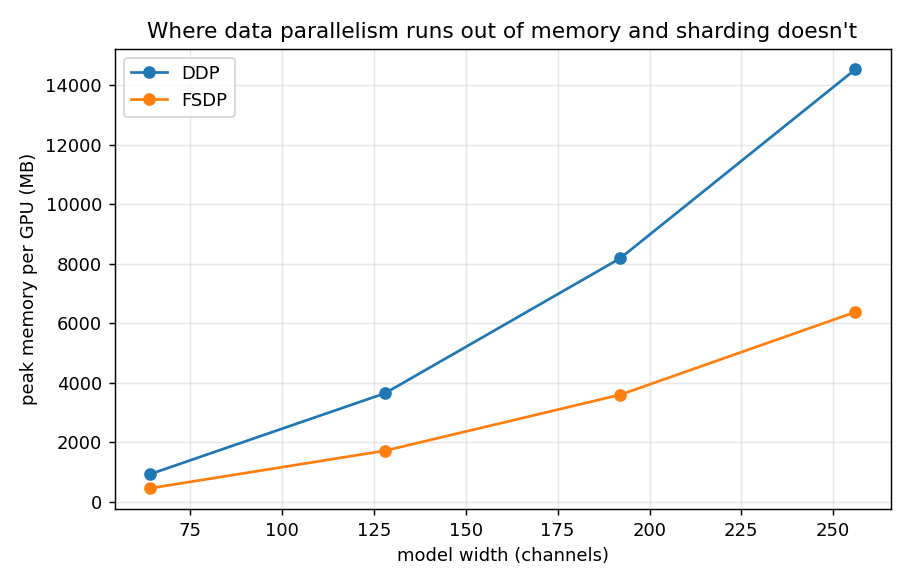
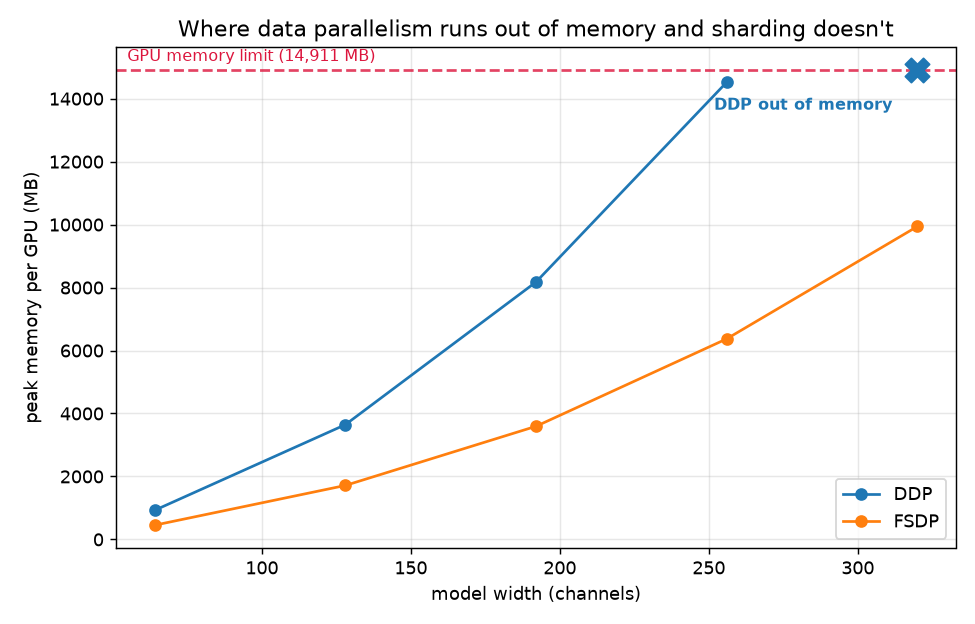
Capture the memory crossover: DDP OOMs at 944M params, FSDP trains it
Ran width 320 on 2x Tesla T4 (14.9 GB usable). DDP cannot fit a replica of the
model + gradients + Adam state and goes out of memory; FSDP trains the same
944M-parameter model in 9,941 MB per GPU by holding a 1/2 shard plus the layer
currently being all-gathered. This is the case data parallelism cannot fix by
adding GPUs -- every rank needs the whole model, so any world size OOMs alike.

Plot now draws the GPU capacity as a reference line, which is what makes the
OOM legible: DDP climbs into it at 320 while FSDP stays well below.

diff --git a/src/crossover.py b/src/crossover.py
@@ -129,25 +129,33 @@ def format_table(rows: list[dict]) -> str:
     return "\n".join(lines)
 
 
-def make_plot(rows: list[dict], out: Path) -> None:
+def make_plot(rows: list[dict], out: Path, mem_limit_mb: float | None = None) -> None:
     import matplotlib
     matplotlib.use("Agg")
     import matplotlib.pyplot as plt
 
-    fig, ax = plt.subplots(figsize=(7, 4.5))
+    fig, ax = plt.subplots(figsize=(7.5, 4.8))
     for mode, colour in (("ddp", "tab:blue"), ("fsdp", "tab:orange")):
         ok = [r for r in rows if r["parallel"] == mode and r["status"] == "ok" and r["peak_mem_mb"]]
         if ok:
             ok.sort(key=lambda r: r["width"])
             ax.plot([r["width"] for r in ok], [r["peak_mem_mb"] for r in ok],
                     "o-", color=colour, label=mode.upper())
+    # The GPU's capacity is what makes an OOM legible: it's the line DDP crosses.
+    if mem_limit_mb:
+        ax.axhline(mem_limit_mb, ls="--", color="crimson", alpha=0.8)
+        ax.annotate(f"GPU memory limit ({mem_limit_mb:,.0f} MB)",
+                    (ax.get_xlim()[0], mem_limit_mb), textcoords="offset points",
+                    xytext=(6, 5), fontsize=9, color="crimson")
+    top = ax.get_ylim()[1]
+    for mode, colour in (("ddp", "tab:blue"), ("fsdp", "tab:orange")):
         for r in rows:
             if r["parallel"] == mode and r["status"] == "oom":
-                ax.scatter([r["width"]], [ax.get_ylim()[1]], marker="X", s=140,
-                           color=colour, zorder=5)
-                ax.annotate(f"{mode.upper()} OOM", (r["width"], ax.get_ylim()[1]),
-                            textcoords="offset points", xytext=(0, -18),
-                            ha="center", fontsize=9, color=colour)
+                y = mem_limit_mb if mem_limit_mb else top
+                ax.scatter([r["width"]], [y], marker="X", s=180, color=colour, zorder=5)
+                ax.annotate(f"{mode.upper()} out of memory", (r["width"], y),
+                            textcoords="offset points", xytext=(-14, -22),
+                            ha="right", fontsize=9, fontweight="bold", color=colour)
     ax.set_xlabel("model width (channels)")
     ax.set_ylabel("peak memory per GPU (MB)")
     # Only claim an OOM in the title if one was actually observed.
@@ -211,7 +219,14 @@ def main() -> None:
     else:
         print("\nNo crossover yet — raise --widths (and/or --modes) until DDP OOMs.")
     try:
-        make_plot(rows, args.plot)
+        limit = None
+        try:  # annotate the card's capacity so an OOM is visually explained
+            import torch
+            if torch.cuda.is_available():
+                limit = torch.cuda.get_device_properties(0).total_memory / 1024 ** 2
+        except Exception:
+            pass
+        make_plot(rows, args.plot, mem_limit_mb=limit)
     except Exception as e:
         print(f"(plot skipped: {e})")
 

diff --git a/README.md b/README.md
@@ -164,7 +164,8 @@ per GPU. Measured on **2× Tesla T4 (15,360 MB each)**, modes=24, micro-batch 4:
 | 64 | 37.8M | 925 MB | 452 MB | 2.05× |
 | 128 | 151.1M | 3,644 MB | 1,714 MB | 2.13× |
 | 192 | 339.9M | 8,176 MB | 3,593 MB | 2.28× |
-| 256 | 604.3M | **14,522 MB** (95% of the card) | 6,371 MB | 2.28× |
+| 256 | 604.3M | 14,522 MB (97% of the card) | 6,371 MB | 2.28× |
+| **320** | **944.2M** | ❌ **out of memory** | ✅ **9,941 MB** | — |
 
 ![peak GPU memory: DDP vs FSDP across model sizes](docs/crossover.png)
 
@@ -172,12 +173,17 @@ per GPU. Measured on **2× Tesla T4 (15,360 MB each)**, modes=24, micro-batch 4:
 close to the theoretical 2× for a 2-rank ZeRO-3 shard, confirming parameters,
 gradients *and* optimizer state are all being sharded rather than just one of them.
 
-At width 256 (604M params) DDP reached **14.5 GB of 15.4 GB — 95% utilisation —
-and survived with ~800 MB to spare**, so this sweep stopped just short of forcing
-an OOM. The trend is unambiguous: memory scales as width² (3,644/925 ≈ 4 = 2²;
-8,176/3,644 ≈ 2.24 ≈ 1.5²), so width 320 would need ~22.7 GB under DDP — well past
-the card — while FSDP would need ~10 GB and keep training. Rerun with
-`--widths 320` on a T4 to capture that OOM explicitly.
+**The crossover is at width 320 (944M parameters).** DDP runs out of memory
+outright — a replica of the model, its gradients and its Adam state cannot fit in
+a T4's 14.9 GB — while FSDP trains the same model in **9.9 GB per GPU**, because
+each rank only ever holds 1/2 of the parameters plus the one layer it is currently
+all-gathering. This is the case data parallelism cannot solve by adding GPUs:
+every DDP rank needs the *whole* model, so 2 GPUs, 8 GPUs or 64 GPUs all OOM
+identically. Sharding is what makes the model trainable at all.
+
+The approach to the wall is visible in the numbers: at width 256 DDP was already
+at 14.5 GB of 14.9 GB (**97% of the card**), and memory scales as width²
+(3,644/925 ≈ 4 = 2²; 8,176/3,644 ≈ 2.24 ≈ 1.5²).
 
 An OOM is treated as a **recorded data point, not a crash** — the harness
 distinguishes a genuine `torch.OutOfMemoryError` from an ordinary bug, so a broken
